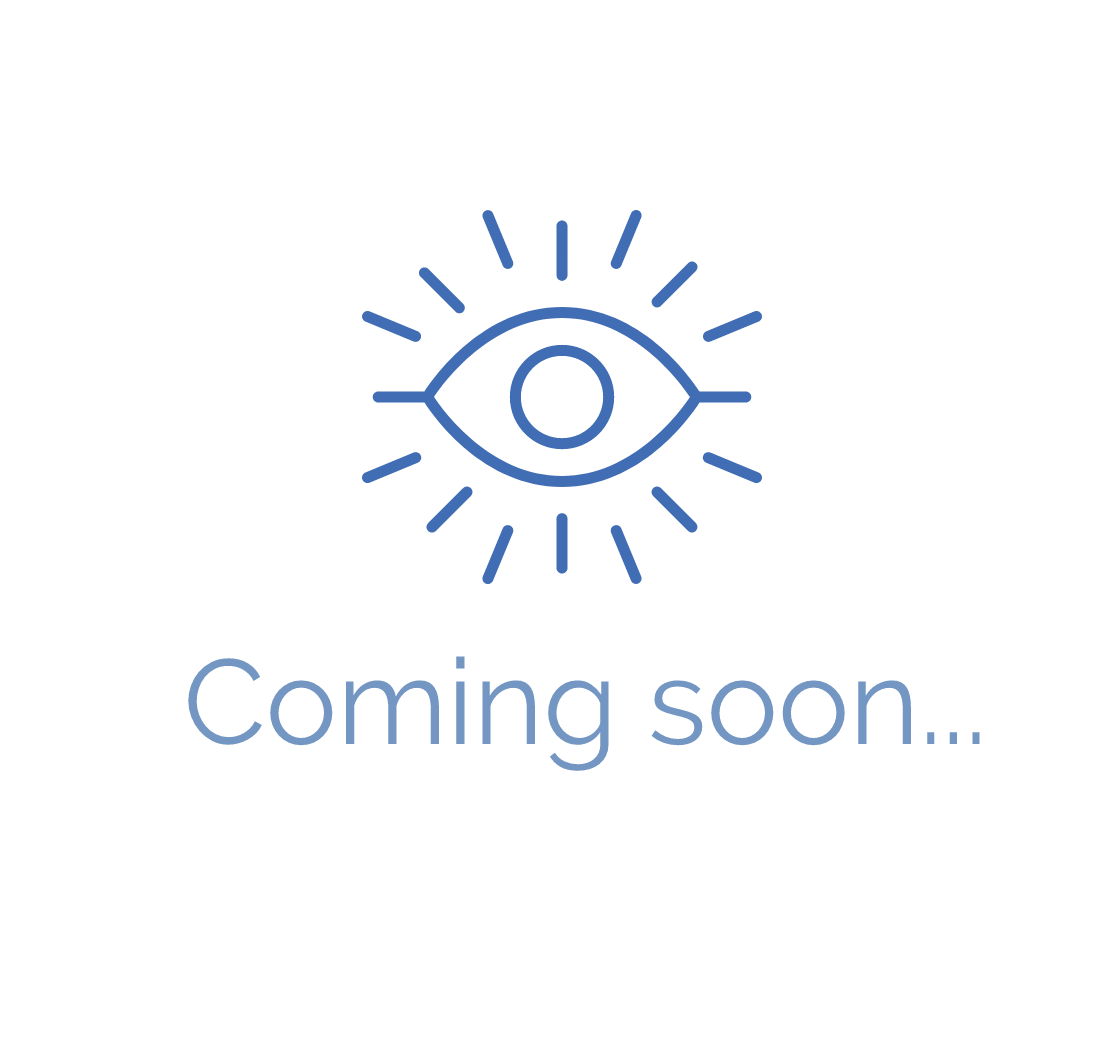
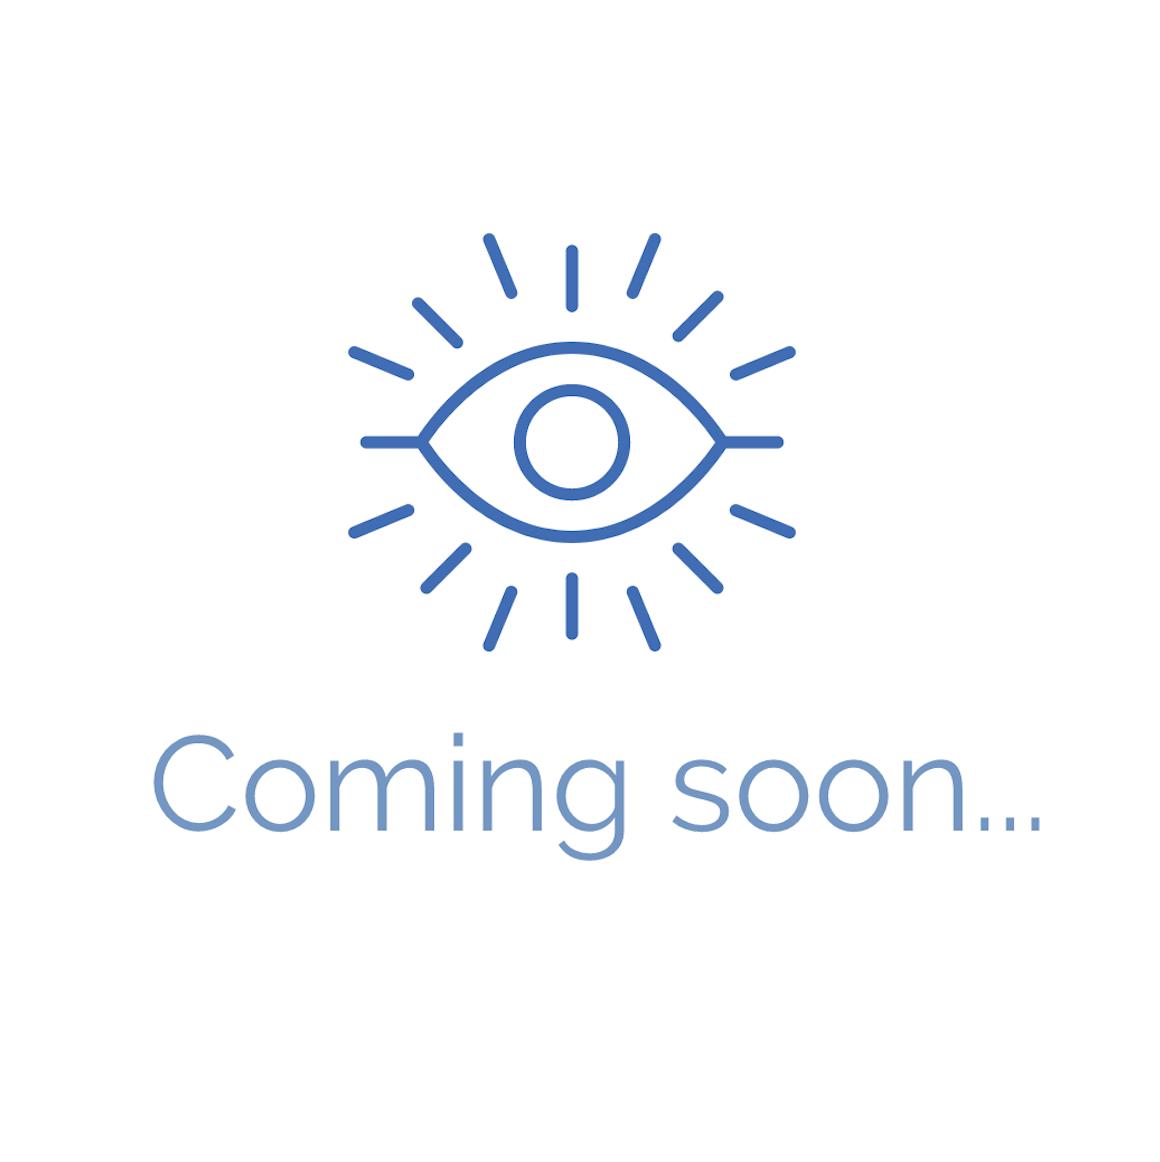
adjusted alignment in data in r

diff --git a/project.html b/project.html
@@ -315,22 +315,11 @@ $(document).ready(function () {
 </style>
 <p><br></p>
 <div class="col2">
-<h4>
-<strong>Snowshoe hares in Alaska</strong>
-</h4>
-<p><a href="projects/snowshoe.html"> <img alt="" src="projects/image/white_sq.jpeg" width="350"> </a> <br><br> <span class="badge">Basic</span></p>
-<h4>
-<strong>Nutrients in vegan vs. non-vegan</strong>
-</h4>
-<p><a href="projects/nutrient.html"> <img alt="" src="projects/image/food.png" width="390"> </a> <br><br> <span class="badge">PCA</span></p>
-</div>
-<p><br></p>
-<div class="col2">
 
 <h4>
 <strong>Steelhead passage across the Bonneville Dam</strong>
 </h4>
-<a href="projects/steelhead_salmon_migration.html"> <img alt="" src="projects/image/steelhead.jpeg"> </a> <br><br>
+<a href="projects/steelhead_salmon_migration.html"> <img alt="" src="projects/image/steelhead.jpeg" height="400"> </a> <br><br>
 <ul>
 <li>
 <p>
@@ -340,9 +329,56 @@ see <a href="projects/steelhead_salmon_migration_code.html">code</a> behind
 </ul>
 <p><span class="badge">Time Series</span></p>
 <h4>
+<strong>Milan Kundera</strong>
+</h4>
+<a href="projects/text_mining_on_the_unbearable.html"> <img alt="" src="projects/image/unbearable.jpg" height="400"> </a> <br><br>
+<ul>
+<li>
+<p>
+see the <a href="projects/text_mining_on_the_unbearable_code.html">code</a> behind</a>
+</p>
+</li>
+</ul>
+<span class="badge">Text mining</span>
+</div>
+<p><br></p>
+<div class="col2">
+<h4>
+<strong>Snowshoe hares in Alaska</strong>
+</h4>
+<p><a href="projects/snowshoe.html"> <img alt="" src="projects/image/snowshoe_cover.png" width="350"> </a> <br><br> <span class="badge">Basic</span> <br><br></p>
+<h4>
+<strong>Nutrients in vegan vs. non-vegan</strong>
+</h4>
+<p><a href="projects/nutrient.html"> <img alt="" src="projects/image/food_cover.png" width="350"> </a> <br><br> <span class="badge">PCA</span></p>
+</div>
+<p><br></p>
+<div class="col2">
+<h4>
+<strong>Green Footprint</strong>
+</h4>
+<a href="https://ruoyuwang.shinyapps.io/GreenFootprint/"> <img alt="" src="projects/image/green_fp.png" height="350" > </a> <br><br>
+<ul>
+<li>
+<p>
+see the <a href="https://devpost.com/software/greentrack-ss-rw">story</a> and <a href="https://github.com/Ruoyu-Wang108/greentrack-ss-rw">GitHub Repo</a>
+</p>
+</li>
+</ul>
+<p><span class="badge">Shinyapp</span> <br><br></p>
+<h4>
+<strong>AnimalDex</strong>
+</h4>
+<p><br> <img alt="" src="projects/image/coming_soon.png" height="350"></p>
+<p><em>Made with <a href="https://logomakr.com">logoMakr</a>.</em></p>
+<span class="badge">Shinyapp</span>
+</div>
+<p><br></p>
+<div class="col2">
+<h4>
 <strong>Agricultural land use and watersheds in Hawaii</strong>
 </h4>
-<a href="projects/map_hawaii.html"> <img alt="" src="projects/image/Hawaiian_Islands_Map.jpg"> </a> <br><br>
+<a href="projects/map_hawaii.html"> <img alt="" src="projects/image/Hawaiian_Islands_Map.jpg" height="350"> </a> <br><br>
 <ul>
 <li>
 <p>
@@ -351,30 +387,11 @@ see <a href="projects/map_hawaii_code.html">code</a> behind
 </li>
 </ul>
 <p><span class="badge">map</span></p>
-<br><br><br><br><br>
-</div>
-<p><br></p>
-<div class="col2">
 <h4>
-<strong>Green Footprint</strong>
 </h4>
-<a href="https://ruoyuwang.shinyapps.io/GreenFootprint/"> <img alt="" src="projects/image/green_fp.png" width="350"> </a> <br><br>
-<ul>
-<li>
-<p>
-see the <a href="https://devpost.com/software/greentrack-ss-rw">story</a> and <a href="https://github.com/Ruoyu-Wang108/greentrack-ss-rw">GitHub Repo</a>
-</p>
-</li>
-</ul>
-<p><span class="badge">Shinyapp</span> <br><br><br></p>
-<h4>
-<strong>AnimalDex</strong>
-</h4>
-<p><br> <img alt="" src="projects/image/coming_soon.png" width="350"></p>
-<p><em>Made with <a href="https://logomakr.com">logoMakr</a>.</em></p>
-<span class="badge">Shinyapp</span>
+<br> <br><br><br><br><br><br><br><br><br><br><br><br><br><br><br><br> <br><br><br><br><br><br><br><br><br>
 </div>
-<p><br><br><br></p>
+<br><br><br>
 <div id="footer" align="center">
 <p><button type="button" class="btn btn-primary disabled"> <a href="index.html" style="color:white">Home</a> </button> <button type="button" class="btn btn-primary disabled"> <a href="gis.html" style="color:white">GIS</a> </button></p>
 </div>
